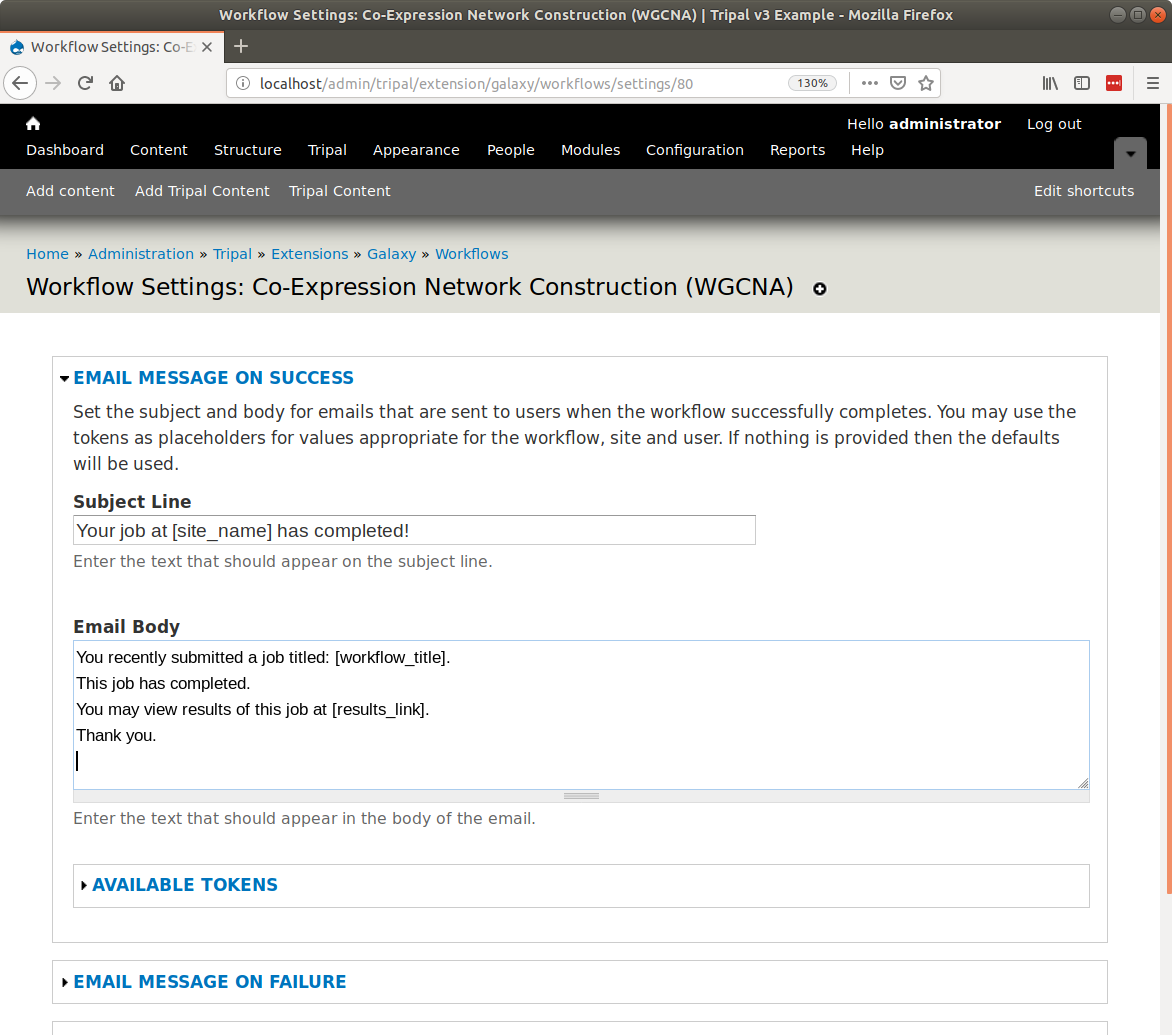
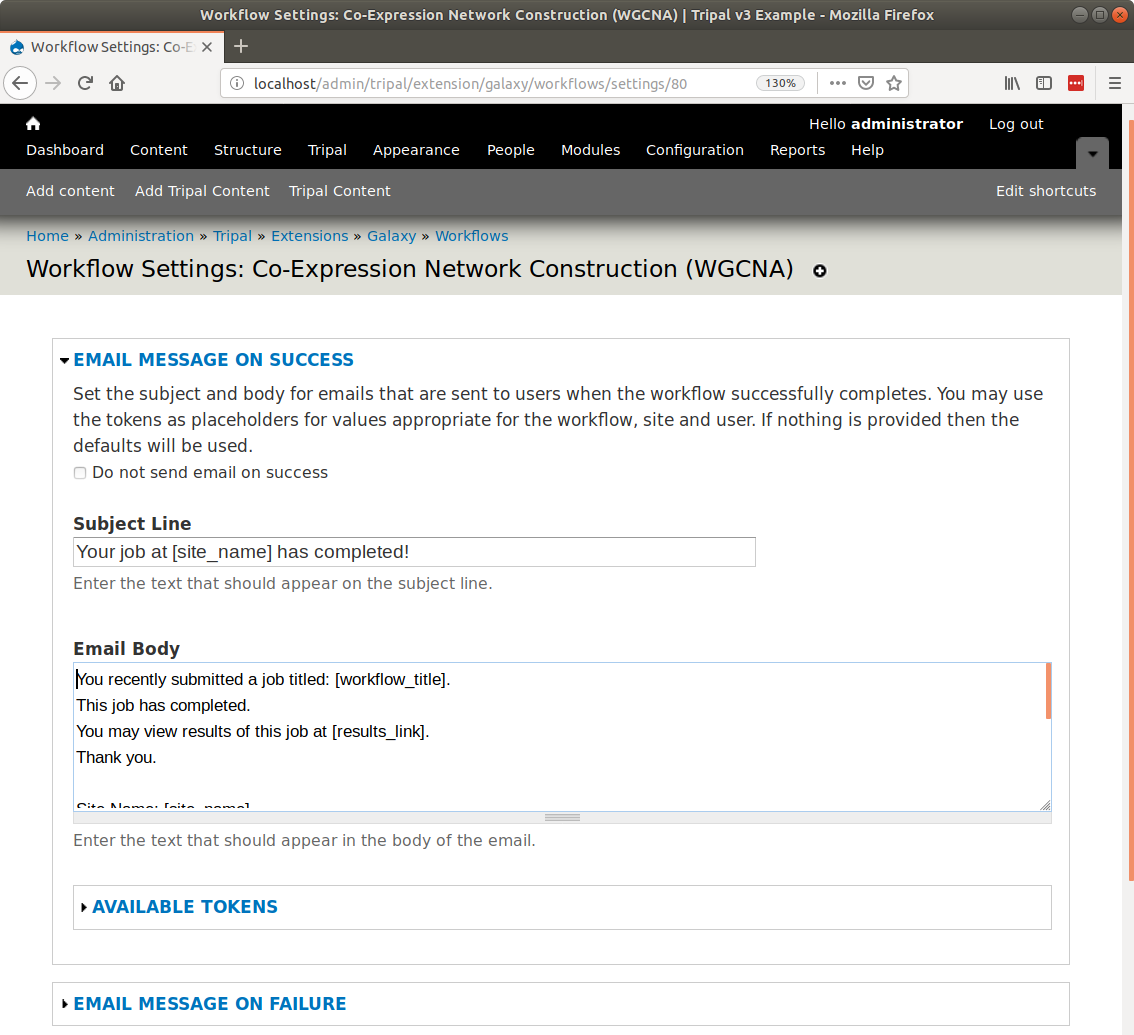
Added setting to ignore emails and added new documentation or automating workflows

diff --git a/docs/automating_tasks.rst b/docs/automating_tasks.rst
@@ -1,0 +1,57 @@
+Executing Jobs and Tasks
+========================
+
+Automatic Job Execution
+-----------------------
+In a production setting, jobs submitted by end-users should be executed automatically.  There are two ways to automate job subimssion.  First, if you are writing your own application using :doc:`option2`, then you will most likely invoke your workflow using the Tripal Galaxy API.  In this case you are invoking the workflow instantly and nothing further is needed.  If you are using :doc:`option1`, then user submitted workflows are added to the Tripal job managment system.  You can therefore automate job execution by following the directions in the `Tripal User's Guide <https://tripal.readthedocs.io/en/latest/user_guide/install_tripal/automating_job_execution.html>`_ for job automation.  
+
+.. note::
+
+  For near instantaneous invocation of workflows consider using the `Tripal Daemon Module <https://tripal.readthedocs.io/en/latest/user_guide/job_management.html>`_. The Tripal Daemon runs as a background service that constantly checks for new jobs and then executes them.
+
+Automatic Job Status Checking
+-----------------------------
+When submitted workflows are added to the Tripal Jobs queue or invoked via the API you will want to check the status of those jobs.  For this we need automation to ensure that jobs are checked on a regular bases.  The best way to do this is to setup an independent `Cron entry <https://en.wikipedia.org/wiki/Cron>`_  for the site.  You can also learn about Cron integration with Drupal at the `Tripal User's Guide <https://tripal.readthedocs.io/en/latest/user_guide/install_tripal/automating_job_execution.html>`_.  To automate job status checks, the ``drush trp-galaxy-status`` command-line tool is available.  Suppose our site is at `http://my.tripal.site` then we could add a new cron entry to check for job status updates every 5 minutes:
+
+.. code-block:: bash
+
+  0,5,10,15,20,25,30,35,40,45,50,55 * * * * drush trp-galaxy-status --uri=http://my.tripal.site/
+  
+.. warning::
+
+  It is critical that the ``--uri`` argument is provided.  When checking a job status if the job has failed or completed then an email will be sent.  Without this argument all links will default to site name of http://default/ which is incorrect.
+
+Automatic Housekeeping
+----------------------
+In the :doc:`settings` section of this document you learned that you can control how frequent cleanup of old histories on the Galaxy server occurs.  These tasks do not use the Tripal Job's management system but rather the Drupal cron, and unlike job execution, you do not want the Cron to execute too often, perhaps once an hour or a few times a day.  
+ 
+You should setup the Drupal cron according to the instructions provided in the `Tripal User's Guide <https://tripal.readthedocs.io/en/latest/user_guide/install_tripal/automating_job_execution.html>`_.
+
+Once the Drupal cron is setup and running then housekeeping will begin.  
+  
+Manually Execute Jobs
+---------------------
+
+.. note::
+
+  Except for testing or debugging you should avoid manual execution of jobs in a production environment.  Rather, jobs should be executed automatically.
+
+As a site administrator you have the ability to manually invoke and check the status of a job. There are two drush commands for this:  ``drush trp-galaxy-invoke`` and ``drush trp-galaxy-status``.  
+
+To manually invoke a workflow submission you can execute the ``trp-galaxy-invoke`` command. It requires that you know the submission ID and that you set the URI of the website.  For example, suppose our Tripal site is named `http://my.tripal.site` and our submission ID is 30.  The following on the command-line will invoke the workflow.
+
+.. code-block:: bash
+ 
+  drush trp-galaxy-invoke --submission=30 --uri=http://my.tirpal.site/
+  
+To check the status use the same arguments for the ``trp-galaxy-status`` command:
+
+.. code-block:: bash
+ 
+  drush trp-galaxy-status --submission=30 --uri=http://my.tirpal.site/
+
+You must provide the ``--uri`` argument because both of these commands may result in an email being sent to the end-user.  By default, drush is not able to resolve the domain name of the site and emails will be sent with a URL of ``http://default/``.
+
+To find the submission ID for any submitted workflow, navigate to ``Adminster > Tripal > Extensions > Galaxy > Job Queue``.  The submission ID appears in the first column of the resulting table.
+
+.. image:: automating_tasks.manual.1.png

diff --git a/docs/install.rst b/docs/install.rst
@@ -1,9 +1,8 @@
 Install Tripal Galaxy
 =================================
 
-
 Installation
-~~~~~~~~~~~~~
+------------
 
 The Tripal Galaxy module is available as a full Drupal module.  Therefore, it can be installed following the typical Drupal module installation either via the GUI or via Drush.  However it requires a few dependencies:
 
@@ -38,7 +37,7 @@ You will be asked if you would like to download and then enable the module.  Now
 
 
 Set Permissions
-~~~~~~~~~~~~~~~
+---------------
 Now that the Tripal Galaxy module is installed, we must set permissions so that users can add submit workflows and administrators can manage the workflows.  To set permissions, navigate to **People** page and click the **Permissions** tab in the top right.  Search through the list of permissions until you find the section titled **Tripal Galaxy**.  In this section you will find two types of permissions, one for providing access to execute published workflows and one for administering the Galaxy module.  By default Drupal install provides three types of roles:  **Anonymous**, **Authenticated** and **Administrator** users.  
 
 .. image:: ./install.2.png

diff --git a/docs/workflow_settings.rst b/docs/workflow_settings.rst
@@ -12,7 +12,7 @@ Currently the setting page allows you to customize the email text that is sent t
 
 .. image:: workflow_settings.2.png
 
-You can change the text of the subject line and the body of the email by altering the text in the fields.  Additionally, you can use tokens as placeholders for text that you want included in the messages.  You can find a list of available tokens by opening the ``Available Tokens`` fieldset.
+You can change the text of the subject line and the body of the email by altering the text in the fields.  Additionally, you can use tokens as placeholders for text that you want included in the messages.  You can find a list of available tokens by opening the ``Available Tokens`` fieldset. If you do not want a workflow to send email you can disable the email by clicking the checkbox whose title begins: ``do not send email``.
 
 .. image:: workflow_settings.3.png
 

diff --git a/docs/settings.rst b/docs/settings.rst
@@ -8,6 +8,3 @@ The first setting ensures that results submitted by users do not pile up and use
 
 1. **Server Status Checks**: All Galaxy servers registered with Tripal are checked to see if they are available. If not then workflows are automatically marked as disabled preventing further submissions. If workflows are disabled, a message is added to the Drupal dashboard.
 2. **History Cleanup**: All histories on the remote Galaxy servers that are older than the number of days specified by the **History Age Experiation** value are deleted.
-
-
- 

diff --git a/docs/index.rst b/docs/index.rst
@@ -20,4 +20,5 @@ Development of the Tripal Galaxy module and accompanying starter workflows was f
    ./workflow_settings
    ./usage
    ./settings
+   ./automating_tasks
    ./API/api
